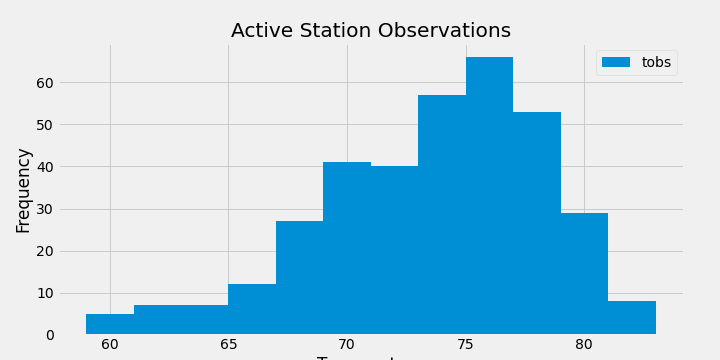
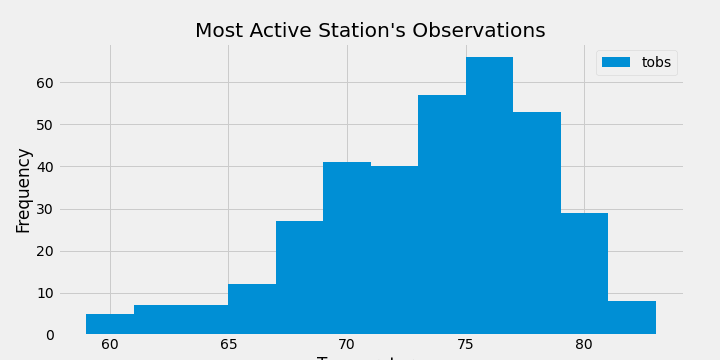
step 2 in progress

Changed region(s): [[0.275, 0.0611, 0.7639, 0.1222]]

diff --git a/app.py b/app.py
@@ -1,0 +1,117 @@
+import numpy as np
+import pandas as pd
+import datetime as dt
+
+import sqlalchemy
+from sqlalchemy.ext.automap import automap_base
+from sqlalchemy.orm import Session
+from sqlalchemy import create_engine, func, inspect, desc
+
+from flask import Flask, jsonify
+
+#################################################
+# Database Setup
+#################################################
+engine = create_engine("sqlite:///Resources/hawaii.sqlite")
+
+# reflect an existing database into a new model
+Base = automap_base()
+# reflect the tables
+Base.prepare(engine, reflect=True)
+
+# Save reference to the table
+Measurement = Base.classes.measurement
+Station = Base.classes.station
+
+#################################################
+# Flask Setup
+#################################################
+app = Flask(__name__)
+
+
+#################################################
+# Flask Routes
+#################################################
+
+@app.route("/")
+def welcome():
+    """List all available api routes."""
+    return (
+        f"Available Routes:<br/>"
+        f"/api/v1.0/precipitaion<br/>"
+        f"/api/v1.0/stations<br/>"
+        f"/api/v1.0/tobs<br/>"
+        f"/api/v1.0/temp/start/end"
+    )
+
+
+@app.route("/api/v1.0/precipitaion")
+def precipitaion():
+
+    # Create our session (link) from Python to the DB
+    session = Session(engine)
+
+    # Calculate the date one year from the last date in data set.
+    previous_yr = dt.date(2017, 8, 23) - dt.timedelta(days=365)
+
+    # Perform a query to retrieve the data and precipitation scores
+    prec_db = session.query(Measurement.date, Measurement.prcp)\
+                            .filter(Measurement.date >= previous_yr)\
+                            .all()
+
+    # Close session after read
+    session.close()
+
+    # Create a dictionary from the row data and set date as the key and prcp as the value
+    all_prec = {date: prcp for date, prcp in prec_db}
+   
+    return jsonify(all_prec)
+
+
+
+@app.route("/api/v1.0/stations")
+def stations():
+
+    # Create our session (link) from Python to the DB
+    session = Session(engine)
+
+    # Perform a query to retrieve the data and precipitation scores
+    stations_db = session.query(Station.station, Station.name)\
+                                .order_by(Station.station)\
+                                .all()
+
+    # Close session after read
+    session.close()
+
+    # Create a dictionary from the row data and append to a list of all_passengers
+    all_stations = {station: name for station, name in stations_db}
+
+    return jsonify(all_stations)
+
+
+@app.route("/api/v1.0/tobs")
+def tobs():
+
+    # Create our session (link) from Python to the DB
+    session = Session(engine)
+
+    # Calculate the date one year from the last date in data set.
+    previous_yr = dt.date(2017, 8, 23) - dt.timedelta(days=365)
+
+    # Perform a query to retrieve the data and precipitation scores
+    tobs_db = session.query(Measurement.date, Measurement.tobs)\
+                            .filter(Measurement.date >= previous_yr)\
+                            .filter(Measurement.station == 'USC00519281')\
+                            .all()
+    
+    # Close session after read
+    session.close()
+
+    # Create a dictionary from the row data and append to a list of all_passengers
+    all_tobs = {date: tobs for date, tobs in tobs_db}
+
+    return jsonify(all_tobs)
+
+
+if __name__ == '__main__':
+    app.run(debug=True)
